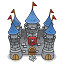
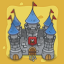
bugs: add tower, go up add tile

diff --git a/src/TowerDefense/GameEnitty/GameScreen/GameField.java b/src/TowerDefense/GameEnitty/GameScreen/GameField.java
@@ -1,20 +1,19 @@
 package TowerDefense.GameEnitty.GameScreen;
 
-import TowerDefense.GameEnitty.Map.GameMap;
-import TowerDefense.GameEnitty.Map.MapManager;
-import TowerDefense.GameEnitty.Map.MapObject;
+import TowerDefense.GameEnitty.GameScreen.Button.basicTowerButton;
+import TowerDefense.GameEnitty.Map.*;
 import TowerDefense.GameEnitty.Map.Point;
 import TowerDefense.GameEnitty.Monster.Monster;
 import TowerDefense.GameEnitty.Monster.normalMonster;
 import TowerDefense.GameEnitty.Monster.smallMonster;
 import TowerDefense.GameEnitty.Monster.tankerMonster;
+import TowerDefense.GameEnitty.Tower.BasicTower;
 import TowerDefense.GameEnitty.Tower.Bullet;
 import TowerDefense.GameEnitty.Tower.Tower;
+import TowerDefense.GameEnitty.GameScreen.Button.basicTowerButton;
 
 import javax.swing.*;
 import java.awt.*;
-import java.awt.event.MouseAdapter;
-import java.awt.event.MouseEvent;
 import java.io.IOException;
 import java.util.ArrayList;
 import java.util.List;
@@ -23,14 +22,16 @@ public class GameField extends JPanel implements Runnable {
     List<Monster> monsters = new ArrayList<Monster>();
     List<Bullet> bullets = new ArrayList<Bullet>();
     List<Tower> towers = new ArrayList<Tower>();
-    List<MapObject> mapper = MapManager.updateMapper();//new ArrayList<MapObject>();
-
+    List<MapObject> mapper = MapManager.updateMapper();
+    Tile tile = new Tile();
     Thread thread;
 
     public GameField() throws IOException {
-        monsters.add(new smallMonster(new Point(0, 64)));
-        //monsters.add(new tankerMonster(new Point(0, 64)));
+        //monsters.add(new smallMonster(new Point(0, 64)));
+        monsters.add(new tankerMonster(new Point(0, 64)));
         //monsters.add(new normalMonster(new Point(0,64)));
+        towers.add(new BasicTower(new Point(0, 128)));
+
         thread = new Thread(this);
         thread.start();
 
@@ -39,6 +40,8 @@ public class GameField extends JPanel implements Runnable {
     public void paint(Graphics g) {
         for (MapObject map : mapper)
             map.paint(g);
+
+        tile.paint(g);
 
         for (Monster mons : monsters) {
             mons.paint(g);

diff --git a/src/TowerDefense/GameEnitty/Monster/Monster.java b/src/TowerDefense/GameEnitty/Monster/Monster.java
@@ -31,37 +31,28 @@ public abstract class Monster extends JPanel {
         g.drawImage(im, pos.getX(), pos.getY(), this);
     }
 
+
+
     public void move() {
         int j = (this.pos.getX()) / 64 ;
         int i = (this.pos.getY()) / 64 ;
 
-        System.out.println(i+" "+j);
-
         try {
             if (MapManager.mapper[i].charAt(j + 1) != '0' && checker[i][j+1] == 0) {
                 //move right
-                System.out.println("Right");
                 this.pos.setX(this.pos.getX() + this.speed);
             }
             else if (MapManager.mapper[i + 1].charAt(j) != '0' && checker[i+1][j] ==0) {
                 //moveDown();
-                System.out.println("DOWN");
                 this.pos.setY(this.pos.getY() + this.speed);
             }
             else if (MapManager.mapper[i - 1].charAt(j) != '0' && checker[i-1][j] ==0) {
-                //moveUp();
                 System.out.println("up");
                 this.pos.setY(this.pos.getY() - this.speed);
             }
             else if (MapManager.mapper[i].charAt(j - 1) != '0' && checker[i][j-1] ==0) {
-                //moveLeft();
-                System.out.println("LEFT");
+                //moveLeft()
                 this.pos.setX(this.pos.getX() - this.speed);
-            }
-            else {
-                this.pos.setX(this.pos.getX()+speed);
-                this.pos.setY(this.pos.getY()+speed);
-                System.out.println("ARR");
             }
             checker[i][j] = 1;
         } catch (Exception e) {}

diff --git a/src/TowerDefense/GameFrame.java b/src/TowerDefense/GameFrame.java
@@ -1,6 +1,7 @@
 //another GameMain
 package TowerDefense;
 
+import TowerDefense.GameEnitty.GameScreen.Button.basicTowerButton;
 import TowerDefense.GameEnitty.GameScreen.GameField;
 
 import javax.swing.*;
@@ -9,8 +10,8 @@ import java.io.IOException;
 
 public class GameFrame extends JFrame {
 
-    public static final int WINDOW_HEIGHT = 768;
-    public static final int WINDOW_WITH   = 1024;
+    public static final int WINDOW_HEIGHT = 640;
+    public static final int WINDOW_WITH   = 1324;
     public static int GAME_LEVEL = 1;
 
     public enum GameState  {
@@ -30,6 +31,7 @@ public class GameFrame extends JFrame {
         setLocationRelativeTo(null);
         //setResizable(false);
         setDefaultCloseOperation(EXIT_ON_CLOSE);
+        setExtendedState(JFrame.MAXIMIZED_BOTH);
 
         GameField gameField = new GameField();
         //tùy vào state để thêm :3

diff --git a/src/TowerDefense/GameEnitty/Tower/Tower.java b/src/TowerDefense/GameEnitty/Tower/Tower.java
@@ -4,8 +4,7 @@ import TowerDefense.GameEnitty.Map.Point;
 import javax.swing.*;
 import java.awt.*;
 
-public abstract class Tower {
-    protected int HP;
+public abstract class Tower extends JPanel{
     protected int speed;
     protected int range;
     protected int damage;
@@ -14,15 +13,14 @@ public abstract class Tower {
     protected Image im;
 
 
-    public Tower(int x, int y, String fileName){
+    public Tower(Point pos, String fileName){
         ImageIcon imageIcon = new ImageIcon(fileName);
         this.im = imageIcon.getImage();
-        this.pos.setX(x);
-        this.pos.setY(y);
+        this.pos= pos;
     }
 
-    public void paint(Graphics g){
-        g.drawImage(im,pos.getX(),pos.getY(),null);
+    public void paint(Graphics g) {
+        g.drawImage(im, pos.getX(), pos.getY(), this);
     }
 
 

diff --git a/src/TowerDefense/GameEnitty/Tower/BasicTower.java b/src/TowerDefense/GameEnitty/Tower/BasicTower.java
@@ -1,0 +1,17 @@
+package TowerDefense.GameEnitty.Tower;
+
+import TowerDefense.GameEnitty.Map.Point;
+
+import java.awt.*;
+
+public class BasicTower extends Tower {
+
+    public BasicTower(Point pos) {
+        super(pos, "res/tower/basic_tower.png");
+        this.speed = 1;
+        this.damage = 5;
+        this.price = 50;
+        this.range = 512;
+    }
+
+}

diff --git a/src/TowerDefense/GameEnitty/GameScreen/Tile.java b/src/TowerDefense/GameEnitty/GameScreen/Tile.java
@@ -1,0 +1,16 @@
+package TowerDefense.GameEnitty.GameScreen;
+
+import javax.swing.*;
+import java.awt.*;
+
+public class Tile extends JPanel {
+    Image im;
+
+    public Tile() {
+        im = new ImageIcon("res/Tile/tile.png").getImage();
+    }
+    public void paint(Graphics g) {
+        g.drawImage(im, 1024, 0, this);
+    }
+
+}

diff --git a/src/TowerDefense/GameEnitty/Map/MapManager.java b/src/TowerDefense/GameEnitty/Map/MapManager.java
@@ -32,7 +32,7 @@ public class MapManager {
 
         MapManager.read();
 
-        for(int i=0; i<12; i++) {
+        for(int i=0; i<11; i++) {
             for (int j=0; j<16; j++) {
                 if (mapper[i].charAt(j) == '0') {
                     MapObject.add(new Mountain(new Point(j*64, i*64)));

diff --git a/src/TowerDefense/GameEnitty/GameScreen/Button/basicTowerButton.java b/src/TowerDefense/GameEnitty/GameScreen/Button/basicTowerButton.java
@@ -1,0 +1,9 @@
+package TowerDefense.GameEnitty.GameScreen.Button;
+
+import javax.swing.*;
+
+public class basicTowerButton extends Button {
+    public basicTowerButton() {
+        button = new JButton(new ImageIcon("res/Map/basic_tower.png"));
+    }
+}

diff --git a/src/TowerDefense/GameEnitty/GameScreen/Button/Button.java b/src/TowerDefense/GameEnitty/GameScreen/Button/Button.java
@@ -1,0 +1,7 @@
+package TowerDefense.GameEnitty.GameScreen.Button;
+
+import javax.swing.*;
+
+public abstract class Button {
+    JButton button;
+}
